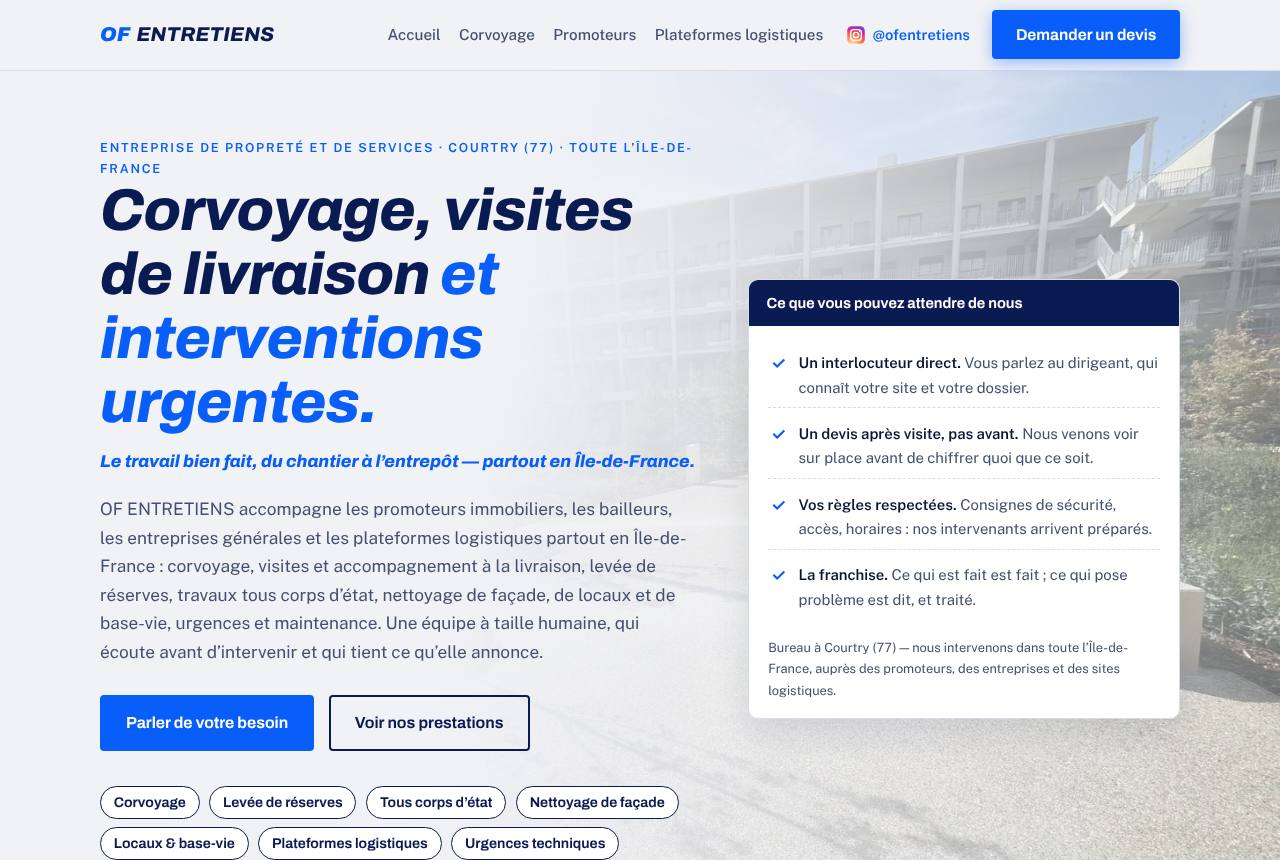
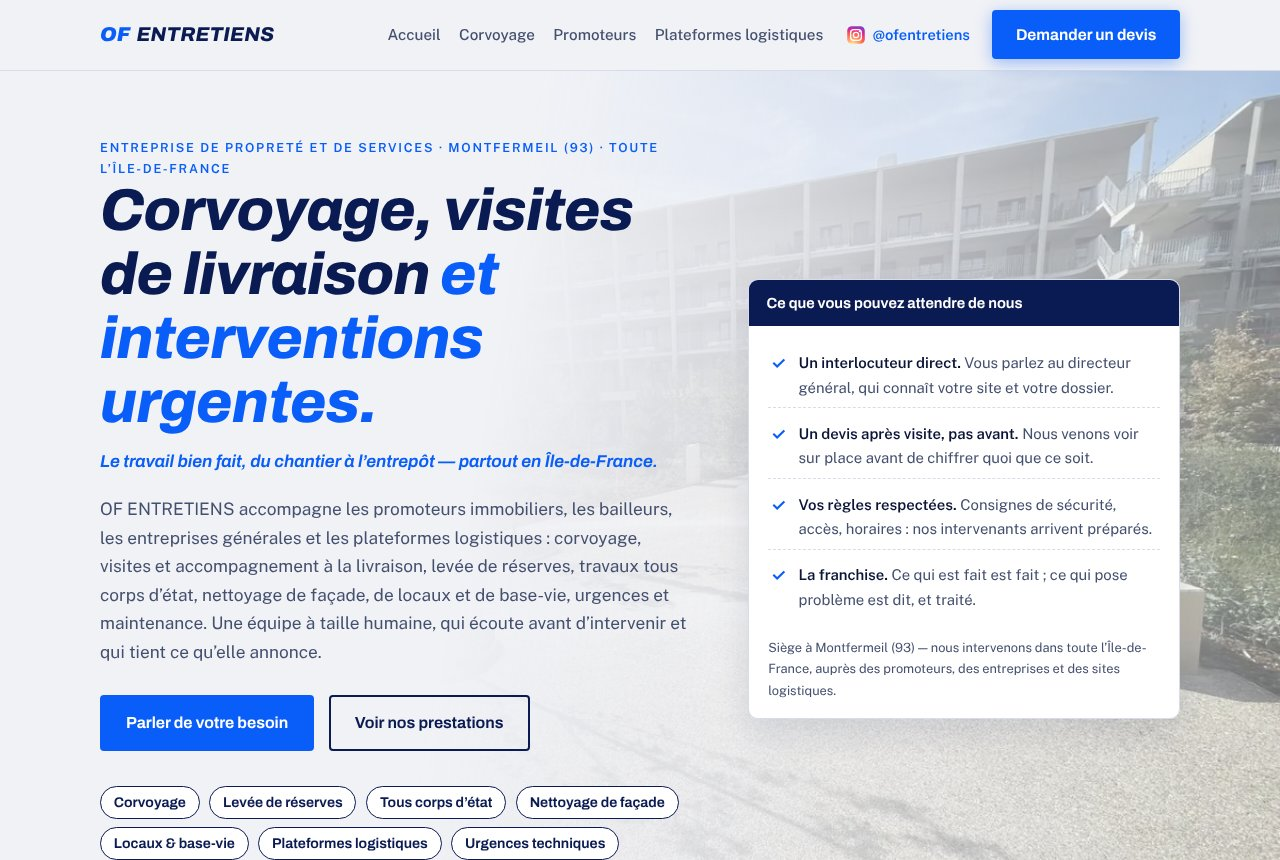
Add Riz Djondjon mock-up and move OF Entretiens to its own domain
Portfolio now shows six sites in a 3+3 grid (two even columns on phones).
Riz Djondjon is labelled as a demo mock-up everywhere, matching the
banner on the mock-up itself. OF Entretiens links to ofentretiens.com,
with a fresh screenshot and its new Montfermeil (93) location.

Claude-Session: https://claude.ai/code/session_01DKCMmHoai7A45DxxNk3rN4

diff --git a/nastudio/index.html b/nastudio/index.html
@@ -135,20 +135,18 @@ h1,h2,h3{font-family:"Archivo Black",sans-serif;font-weight:400;line-height:.95;
 /* ---------- bande portfolio ---------- */
 .works-grid{display:grid;grid-template-columns:repeat(6,minmax(0,1fr));gap:22px;margin-top:44px;width:100%}
 .works-grid .site-card{grid-column:span 2}
-.works-grid .site-card:nth-child(-n+2){grid-column:span 3}
 .site-card{background:var(--card);border:1px solid var(--line);border-radius:12px;overflow:hidden;text-decoration:none;color:var(--fg);display:flex;flex-direction:column;min-width:0}
 .site-card h3::after{content:" ↗";color:var(--ikb-l);font-family:"Public Sans",sans-serif;font-weight:700}
 .works-more{margin:22px 0 0;color:var(--dim);font-size:.95rem}
 .works-more b{color:var(--fg)}
 @media (max-width:900px){
   .works-grid{grid-template-columns:repeat(2,minmax(0,1fr));gap:14px;margin-top:34px}
-  .works-grid .site-card,.works-grid .site-card:nth-child(-n+2){grid-column:span 1}
-  .works-grid .site-card:first-child{grid-column:span 2}
+  .works-grid .site-card{grid-column:span 1}
 }
 @media (max-width:560px){
-  .works-grid .site-card:not(:first-child) .b{padding:11px 12px 13px}
-  .works-grid .site-card:not(:first-child) .m span:last-child{display:none}
-  .works-grid .site-card:not(:first-child) h3{font-size:.86rem;line-height:1.2}
+  .works-grid .site-card .b{padding:11px 12px 13px}
+  .works-grid .site-card .m span:last-child{display:none}
+  .works-grid .site-card h3{font-size:.86rem;line-height:1.2}
 }
 .site-card img{width:100%;aspect-ratio:1280/860;height:auto;object-fit:cover;object-position:top;display:block}
 .site-card .b{padding:16px 18px}
@@ -385,7 +383,7 @@ footer::before{content:"";position:absolute;left:50%;top:-40%;width:90%;height:8
     <div class="col" style="width:100%">
       <p class="eyebrow rv">Chapitre 01 · Réalisations</p>
       <h2 class="giant split"><span class="ln"><span class="lw" style="--l:0"><span data-count="50">50</span>+ sites</span></span> <span class="ln"><span class="lw blue" style="--l:1">livrés.</span></span></h2>
-      <p class="lede rv d2">Bijouterie, couverture, permis de construire, BTP, rénovation : cinq métiers, cinq identités — aucune ne ressemble aux autres. <b>Cliquez, ils sont en ligne.</b></p>
+      <p class="lede rv d2">Bijouterie, couverture, permis de construire, BTP, rénovation, restauration : six métiers, six identités — aucune ne ressemble aux autres. <b>Cliquez, ils sont en ligne.</b></p>
       <div class="works-grid">
         <a class="site-card rv" style="--i:0" href="https://www.atelierbaratte.fr" target="_blank" rel="noopener">
           <div class="shot"><img src="assets/shot-atelierbaratte.jpg" width="1280" height="860" loading="lazy" alt="Site de la bijouterie Atelier Baratte à Saint-Maur-des-Fossés"></div>
@@ -403,12 +401,16 @@ footer::before{content:"";position:absolute;left:50%;top:-40%;width:90%;height:8
           <div class="shot"><img src="assets/shot-construisez.jpg" width="1280" height="860" loading="lazy" alt="Site de Construisez, permis de construire et déclaration préalable en Île-de-France"></div>
           <div class="b"><div class="m"><span>Permis de construire</span><span>Saint-Maur (94)</span></div><h3>Construisez · depuis 2018</h3></div>
         </a>
-        <a class="site-card rv" style="--i:4" href="https://ofentretiens.netlify.app" target="_blank" rel="noopener">
-          <div class="shot"><img src="assets/shot-ofentretiens.jpg" width="1280" height="860" loading="lazy" alt="Site d'OF Entretiens, services au BTP en Île-de-France"></div>
-          <div class="b"><div class="m"><span>Services BTP</span><span>Courtry (77)</span></div><h3>OF Entretiens</h3></div>
+        <a class="site-card rv" style="--i:4" href="https://www.ofentretiens.com" target="_blank" rel="noopener">
+          <div class="shot"><img src="assets/shot-ofentretiens.jpg" width="1280" height="860" loading="lazy" alt="Site d'OF Entretiens, corvoyage et services aux promoteurs en Île-de-France"></div>
+          <div class="b"><div class="m"><span>Services BTP</span><span>Montfermeil (93)</span></div><h3>OF Entretiens</h3></div>
+        </a>
+        <a class="site-card rv" style="--i:5" href="https://riz-djondjon-maquette.netlify.app" target="_blank" rel="noopener">
+          <div class="shot"><img src="assets/shot-rizdjondjon.jpg" width="1280" height="860" loading="lazy" alt="Maquette de site pour Riz Djondjon, restaurant haïtien à Paris 2e"></div>
+          <div class="b"><div class="m"><span>Restaurant</span><span>Paris 2e</span></div><h3>Riz Djondjon · maquette</h3></div>
         </a>
       </div>
-      <p class="works-more rv">Ici, cinq exemples récents. <b>Plus de 45 autres sites livrés</b> en Île-de-France : artisans, commerces, BTP, services.</p>
+      <p class="works-more rv">Ici, six exemples récents. <b>Plus de 40 autres sites livrés</b> en Île-de-France : artisans, commerces, BTP, services.</p>
       <div class="actions rv"><a class="cta" href="#contact">Je veux un site comme ça</a><a class="ghost" href="sites.html">Tout sur les sites web →</a></div>
     </div>
   </div>
@@ -580,7 +582,8 @@ footer::before{content:"";position:absolute;left:50%;top:-40%;width:90%;height:8
         <a href="https://jmccouverture.com" target="_blank" rel="noopener">JMC Couverture</a>
         <a href="https://ajr-concept.netlify.app" target="_blank" rel="noopener">AJR Concept</a>
         <a href="https://www.construisez.fr" target="_blank" rel="noopener">Construisez</a>
-        <a href="https://ofentretiens.netlify.app" target="_blank" rel="noopener">OF Entretiens</a>
+        <a href="https://www.ofentretiens.com" target="_blank" rel="noopener">OF Entretiens</a>
+        <a href="https://riz-djondjon-maquette.netlify.app" target="_blank" rel="noopener">Riz Djondjon (maquette)</a>
       </nav>
       <div class="fcol fcontact">
         <p class="fh">Contact</p>

diff --git a/nastudio/preview.html b/nastudio/preview.html
@@ -85,20 +85,18 @@ h1,h2,h3{font-family:"Archivo Black",sans-serif;font-weight:400;line-height:.95;
 /* ---------- bande portfolio ---------- */
 .works-grid{display:grid;grid-template-columns:repeat(6,minmax(0,1fr));gap:22px;margin-top:44px;width:100%}
 .works-grid .site-card{grid-column:span 2}
-.works-grid .site-card:nth-child(-n+2){grid-column:span 3}
 .site-card{background:var(--card);border:1px solid var(--line);border-radius:12px;overflow:hidden;text-decoration:none;color:var(--fg);display:flex;flex-direction:column;min-width:0}
 .site-card h3::after{content:" ↗";color:var(--ikb-l);font-family:"Public Sans",sans-serif;font-weight:700}
 .works-more{margin:22px 0 0;color:var(--dim);font-size:.95rem}
 .works-more b{color:var(--fg)}
 @media (max-width:900px){
   .works-grid{grid-template-columns:repeat(2,minmax(0,1fr));gap:14px;margin-top:34px}
-  .works-grid .site-card,.works-grid .site-card:nth-child(-n+2){grid-column:span 1}
-  .works-grid .site-card:first-child{grid-column:span 2}
+  .works-grid .site-card{grid-column:span 1}
 }
 @media (max-width:560px){
-  .works-grid .site-card:not(:first-child) .b{padding:11px 12px 13px}
-  .works-grid .site-card:not(:first-child) .m span:last-child{display:none}
-  .works-grid .site-card:not(:first-child) h3{font-size:.86rem;line-height:1.2}
+  .works-grid .site-card .b{padding:11px 12px 13px}
+  .works-grid .site-card .m span:last-child{display:none}
+  .works-grid .site-card h3{font-size:.86rem;line-height:1.2}
 }
 .site-card img{width:100%;aspect-ratio:1280/860;height:auto;object-fit:cover;object-position:top;display:block}
 .site-card .b{padding:16px 18px}
@@ -334,7 +332,7 @@ footer::before{content:"";position:absolute;left:50%;top:-40%;width:90%;height:8
     <div class="col" style="width:100%">
       <p class="eyebrow rv">Chapitre 01 · Réalisations</p>
       <h2 class="giant split"><span class="ln"><span class="lw" style="--l:0"><span data-count="50">50</span>+ sites</span></span> <span class="ln"><span class="lw blue" style="--l:1">livrés.</span></span></h2>
-      <p class="lede rv d2">Bijouterie, couverture, permis de construire, BTP, rénovation : cinq métiers, cinq identités — aucune ne ressemble aux autres. <b>Cliquez, ils sont en ligne.</b></p>
+      <p class="lede rv d2">Bijouterie, couverture, permis de construire, BTP, rénovation, restauration : six métiers, six identités — aucune ne ressemble aux autres. <b>Cliquez, ils sont en ligne.</b></p>
       <div class="works-grid">
         <a class="site-card rv" style="--i:0" href="https://www.atelierbaratte.fr" target="_blank" rel="noopener">
           <div class="shot"><img src="assets/shot-atelierbaratte.jpg" width="1280" height="860" loading="lazy" alt="Site de la bijouterie Atelier Baratte à Saint-Maur-des-Fossés"></div>
@@ -352,12 +350,16 @@ footer::before{content:"";position:absolute;left:50%;top:-40%;width:90%;height:8
           <div class="shot"><img src="assets/shot-construisez.jpg" width="1280" height="860" loading="lazy" alt="Site de Construisez, permis de construire et déclaration préalable en Île-de-France"></div>
           <div class="b"><div class="m"><span>Permis de construire</span><span>Saint-Maur (94)</span></div><h3>Construisez · depuis 2018</h3></div>
         </a>
-        <a class="site-card rv" style="--i:4" href="https://ofentretiens.netlify.app" target="_blank" rel="noopener">
-          <div class="shot"><img src="assets/shot-ofentretiens.jpg" width="1280" height="860" loading="lazy" alt="Site d'OF Entretiens, services au BTP en Île-de-France"></div>
-          <div class="b"><div class="m"><span>Services BTP</span><span>Courtry (77)</span></div><h3>OF Entretiens</h3></div>
+        <a class="site-card rv" style="--i:4" href="https://www.ofentretiens.com" target="_blank" rel="noopener">
+          <div class="shot"><img src="assets/shot-ofentretiens.jpg" width="1280" height="860" loading="lazy" alt="Site d'OF Entretiens, corvoyage et services aux promoteurs en Île-de-France"></div>
+          <div class="b"><div class="m"><span>Services BTP</span><span>Montfermeil (93)</span></div><h3>OF Entretiens</h3></div>
+        </a>
+        <a class="site-card rv" style="--i:5" href="https://riz-djondjon-maquette.netlify.app" target="_blank" rel="noopener">
+          <div class="shot"><img src="assets/shot-rizdjondjon.jpg" width="1280" height="860" loading="lazy" alt="Maquette de site pour Riz Djondjon, restaurant haïtien à Paris 2e"></div>
+          <div class="b"><div class="m"><span>Restaurant</span><span>Paris 2e</span></div><h3>Riz Djondjon · maquette</h3></div>
         </a>
       </div>
-      <p class="works-more rv">Ici, cinq exemples récents. <b>Plus de 45 autres sites livrés</b> en Île-de-France : artisans, commerces, BTP, services.</p>
+      <p class="works-more rv">Ici, six exemples récents. <b>Plus de 40 autres sites livrés</b> en Île-de-France : artisans, commerces, BTP, services.</p>
       <div class="actions rv"><a class="cta" href="#contact">Je veux un site comme ça</a><a class="ghost" href="sites.html">Tout sur les sites web →</a></div>
     </div>
   </div>
@@ -529,7 +531,8 @@ footer::before{content:"";position:absolute;left:50%;top:-40%;width:90%;height:8
         <a href="https://jmccouverture.com" target="_blank" rel="noopener">JMC Couverture</a>
         <a href="https://ajr-concept.netlify.app" target="_blank" rel="noopener">AJR Concept</a>
         <a href="https://www.construisez.fr" target="_blank" rel="noopener">Construisez</a>
-        <a href="https://ofentretiens.netlify.app" target="_blank" rel="noopener">OF Entretiens</a>
+        <a href="https://www.ofentretiens.com" target="_blank" rel="noopener">OF Entretiens</a>
+        <a href="https://riz-djondjon-maquette.netlify.app" target="_blank" rel="noopener">Riz Djondjon (maquette)</a>
       </nav>
       <div class="fcol fcontact">
         <p class="fh">Contact</p>

diff --git a/nastudio/sites.html b/nastudio/sites.html
@@ -133,7 +133,7 @@
   <div class="wrap">
     <div class="sec-head">
       <p class="mono">Réalisations · une sélection parmi plus de 50 sites livrés</p>
-      <h2>Cinq métiers, cinq identités. Cliquez, comparez.</h2>
+      <h2>Six métiers, six identités. Cliquez, comparez.</h2>
     </div>
     <div class="works">
       <article class="work">
@@ -169,11 +169,21 @@
       <article class="work">
         <div class="shot"><img src="assets/shot-ofentretiens.jpg" width="1280" height="860" loading="lazy" alt="Page d'accueil du site OF Entretiens : corvoyage, visites de livraison et interventions en Île-de-France"></div>
         <div class="body">
-          <p class="meta mono"><span>Services au BTP</span><span>Courtry (77) · Île-de-France</span></p>
+          <p class="meta mono"><span>Services au BTP</span><span>Montfermeil (93) · Île-de-France</span></p>
           <h3>OF Entretiens</h3>
           <p>Partenaire des promoteurs et plateformes logistiques : corvoyage, levée de réserves, urgences. Site orienté devis, pensé pour une clientèle B2B.</p>
           <div class="chips"><span class="chip">B2B · promoteurs</span><span class="chip">8 départements couverts</span></div>
-          <p class="visit"><a href="https://ofentretiens.netlify.app" target="_blank" rel="noopener">Visiter le site →</a></p>
+          <p class="visit"><a href="https://www.ofentretiens.com" target="_blank" rel="noopener">Visiter ofentretiens.com →</a></p>
+        </div>
+      </article>
+      <article class="work">
+        <div class="shot"><img src="assets/shot-rizdjondjon.jpg" width="1280" height="860" loading="lazy" alt="Maquette de site pour Riz Djondjon, restaurant haïtien rue Saint-Denis à Paris 2e"></div>
+        <div class="body">
+          <p class="meta mono"><span>Restaurant · maquette</span><span>Paris 2e</span></p>
+          <h3>Riz Djondjon</h3>
+          <p>Proposition de site pour un restaurant haïtien de la rue Saint-Denis : ambiance, carte, soirées et brunch, réservation et commande Uber Eats en un geste. Maquette de démonstration, pas encore adoptée par le restaurant.</p>
+          <div class="chips"><span class="chip">Maquette de démonstration</span><span class="chip">Réservation · livraison</span></div>
+          <p class="visit"><a href="https://riz-djondjon-maquette.netlify.app" target="_blank" rel="noopener">Voir la maquette →</a></p>
         </div>
       </article>
       <article class="work">
